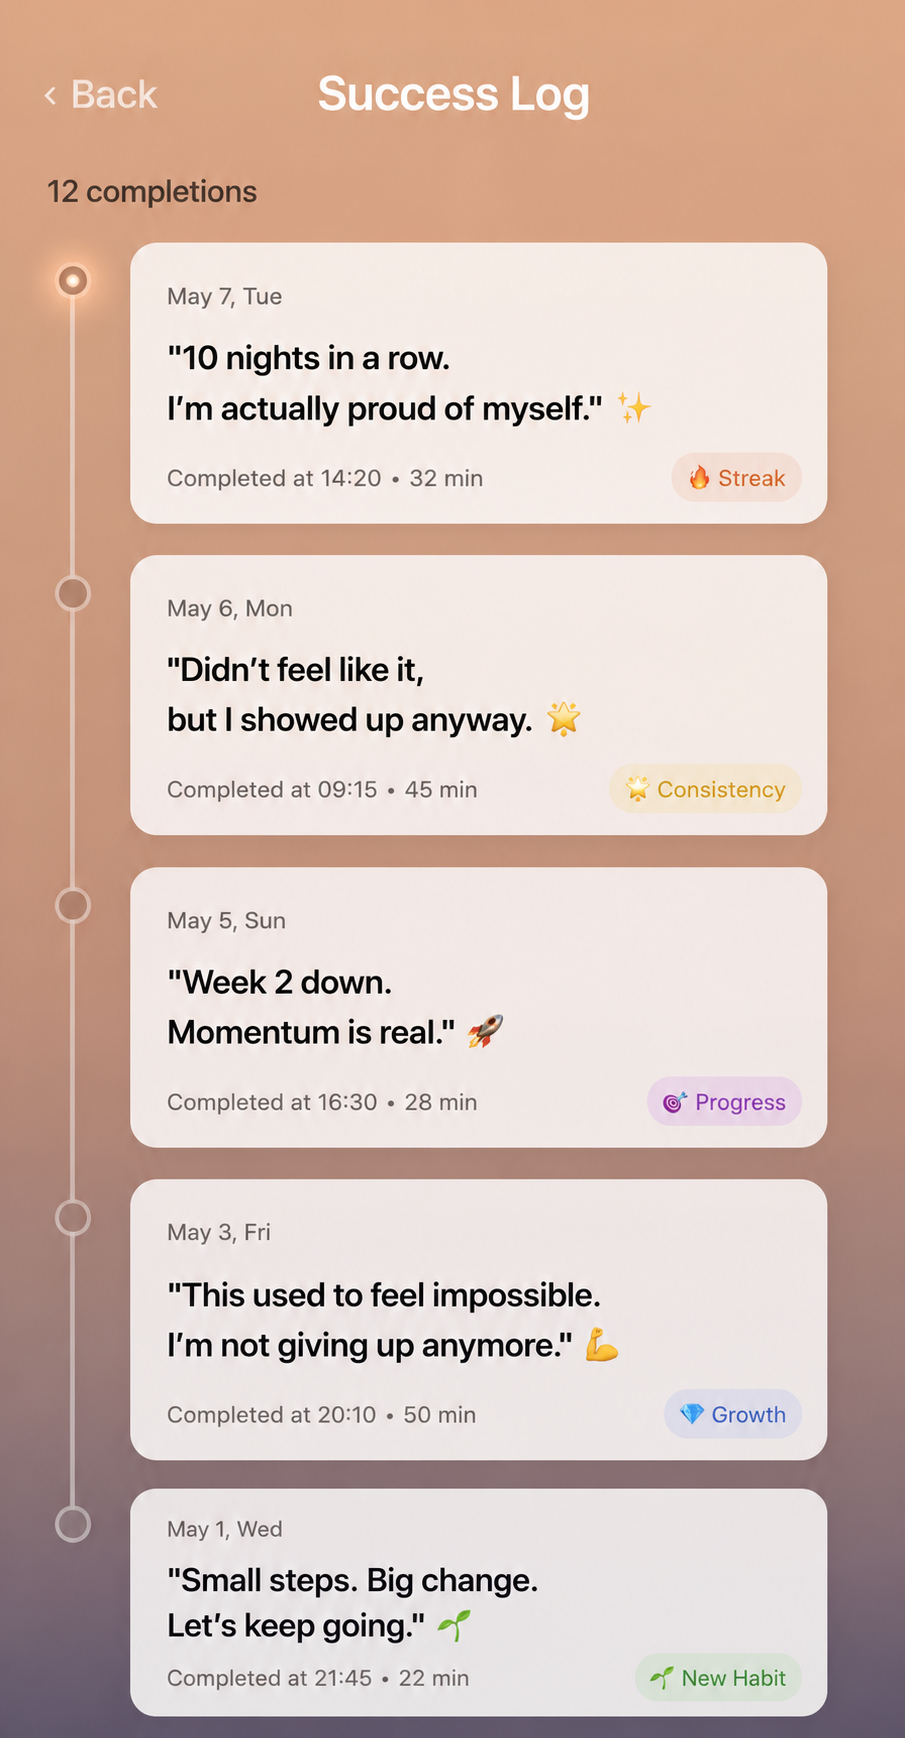
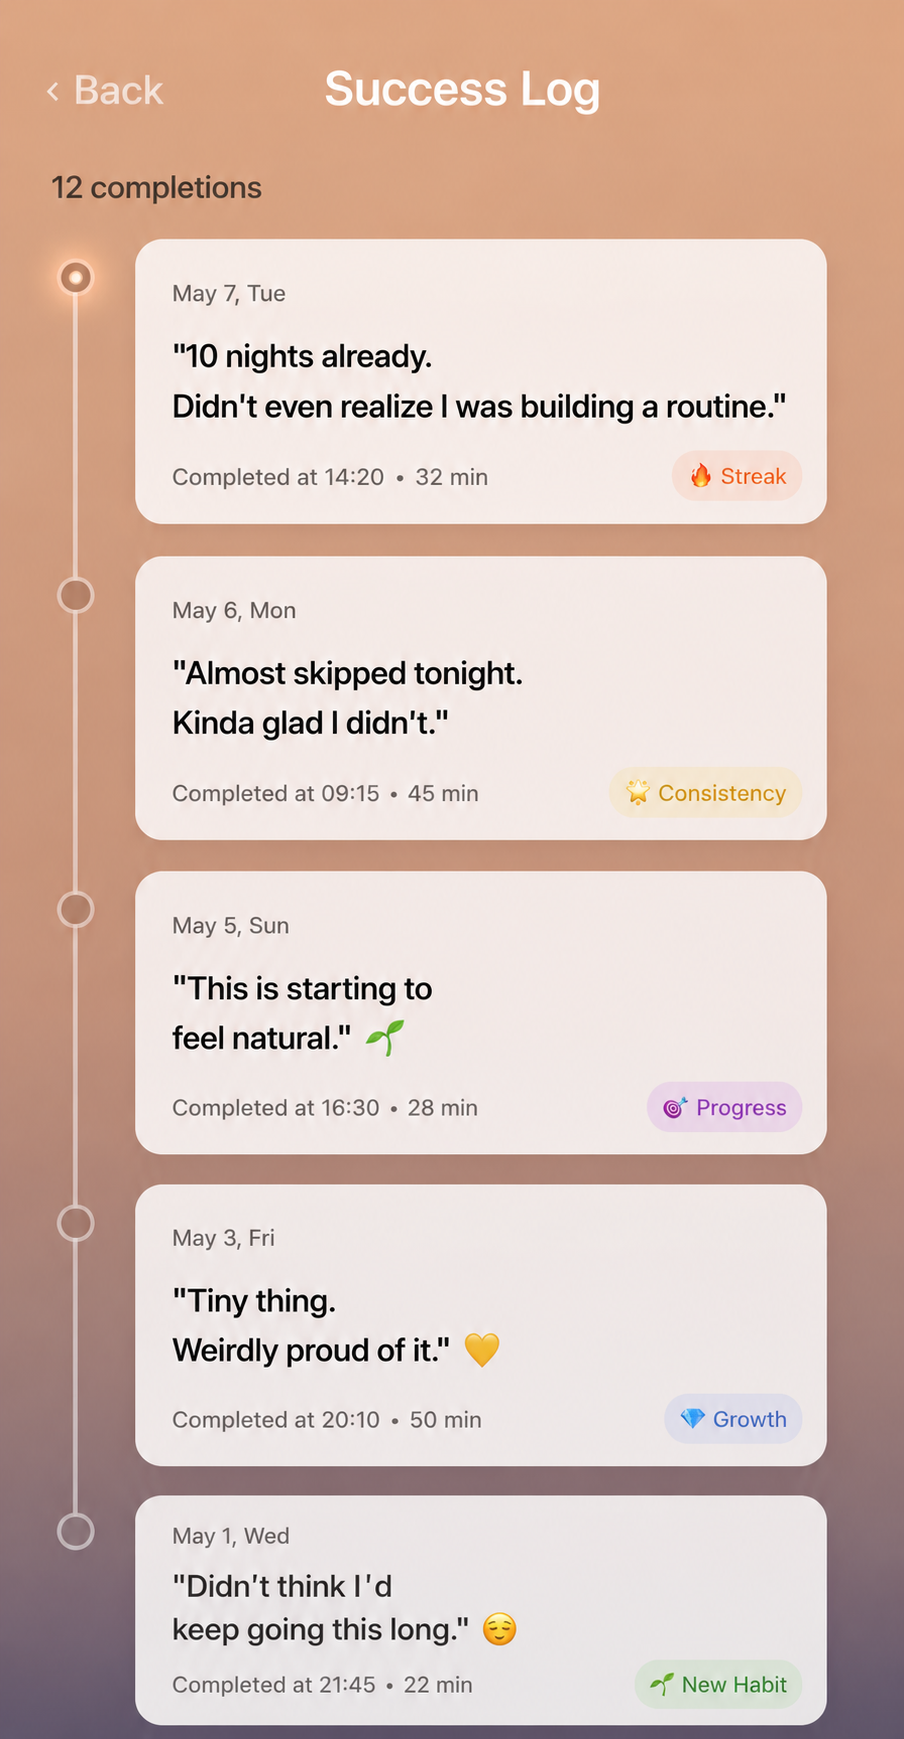
change image

diff --git a/README.md b/README.md
@@ -20,22 +20,23 @@ npm run dev
 
 ## 变体路径
 
-- `/a` - Variant A: Pain-First（痛点直击版）✅
-- `/b` - Variant B: Science-First（科学理性版）⏳
-- `/c` - Variant C: Empathy-First（温柔共情版）⏳
-- `/d` - Variant D: Competitive（对标挑衅版）⏳
+- `/a` - Variant A: Pain-First（痛点直击版）✅ v2.3
+- `/b` - Variant B: Science-First（科学理性版）⏳ v2.1
+- `/c` - Variant C: Empathy-First（温柔共情版）⏳ v2.1
+- `/d` - Variant D: Competitive（对标挑衅版）⏳ v2.1
 
 ## 当前状态
 
-✅ **Variant A (Pain-First)** 已完成
-- Hero Section: "Stop starting from Day 1"
-- Problem Section: 3个痛点卡片
-- Cycle Visual: 循环视觉化
-- Solution Section: 3个核心机制
-- Social Proof: 研究数据 + Testimonials
-- Pricing: $4.99/月
-- FAQ: 4个问题（可折叠）
-- Final CTA: Email表单
+✅ **Variant A (Pain-First) v2.3** 已完成并部署
+- Hero: "Your streak died. Your progress didn't."（对仗句式）
+- Transition Moment: "But what if the app remembered..."（痛点→解决方案转折）
+- Problem Section: 3个情感递进卡片（Day 0场景 → 心理螺旋 → 系统性归因）
+- Solution Section: 按功能吸引力排序 + Before/After对比框
+- FAQ: 4个新问题（区分"不push"和"不清零"）
+- Social Proof: 3条真实用户证言
+- Pricing: $4.99/月（明确iOS + Cloud sync）
+- Final CTA: "Your progress deserves an app that keeps it."
+- 部署: https://nightclose-habbit.vercel.app/a
 
 ## 部署
 
@@ -46,8 +47,17 @@ git push origin main
 
 ## 下一步
 
-1. 实现 Variant B/C/D
-2. 集成 Vercel Analytics
-3. 集成 Tally.so 或 ConvertKit（Waitlist表单）
-4. SEO优化（meta tags）
-5. 响应式测试
+1. **用户测试 Variant A v2.3**
+   - 分享 URL 到目标社区（r/getdisciplined, r/productivity, Twitter）
+   - 收集反馈和监测 Vercel Analytics
+2. **重构 Variant B/C/D 至 v2.3**
+   - 基于 Variant A 的成功经验
+   - 统一信息架构（Hero → Problem → Transition → Solution → Social Proof → Pricing → FAQ → Final CTA）
+3. 集成 Vercel Analytics（已启用，需配置事件追踪）
+4. 集成 Tally.so 或 ConvertKit（Waitlist表单）
+5. SEO优化（meta tags）
+
+## 版本历史
+
+- **v2.3** (2026-05-09): Variant A 重构（对仗句式 + Transition Moment + 情感递进 + Before/After 对比）
+- **v2.1** (2026-05-06): 4个变体初始版本（围绕"Day 1"痛点）
